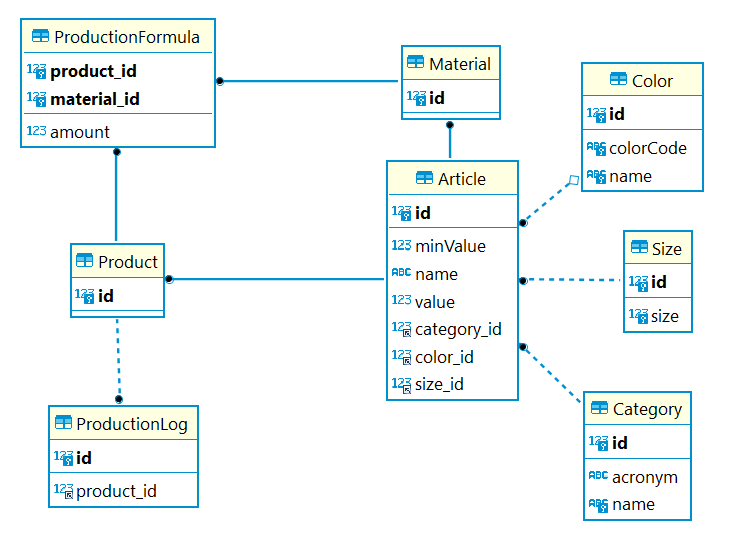
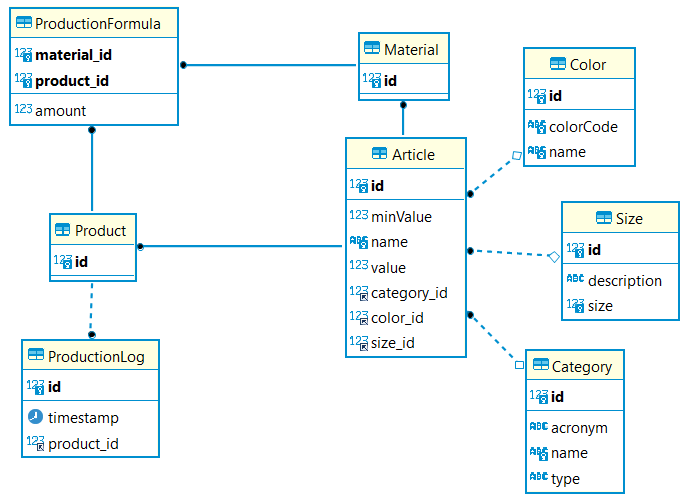
update ERD

Changed region(s): [[0.0, 0.0, 0.9839, 0.996], [0.7994, 0.3924, 1.0, 0.664]]

diff --git a/MultiFlex/API/RestApi/src/main/java/at/multiflex/model/ProductionLog.java b/MultiFlex/API/RestApi/src/main/java/at/multiflex/model/ProductionLog.java
@@ -6,6 +6,8 @@ import com.fasterxml.jackson.annotation.JsonManagedReference;
 import lombok.*;
 
 import javax.persistence.*;
+import java.util.Date;
+
 /**
  * An entity that logs all productions
  */
@@ -23,6 +25,8 @@ public class ProductionLog {
     @ManyToOne
     @JoinColumn(name = "product_id", nullable = false)
     private Product product;
+
+    private Date timestamp;
 
     @Override
     public String toString() {
